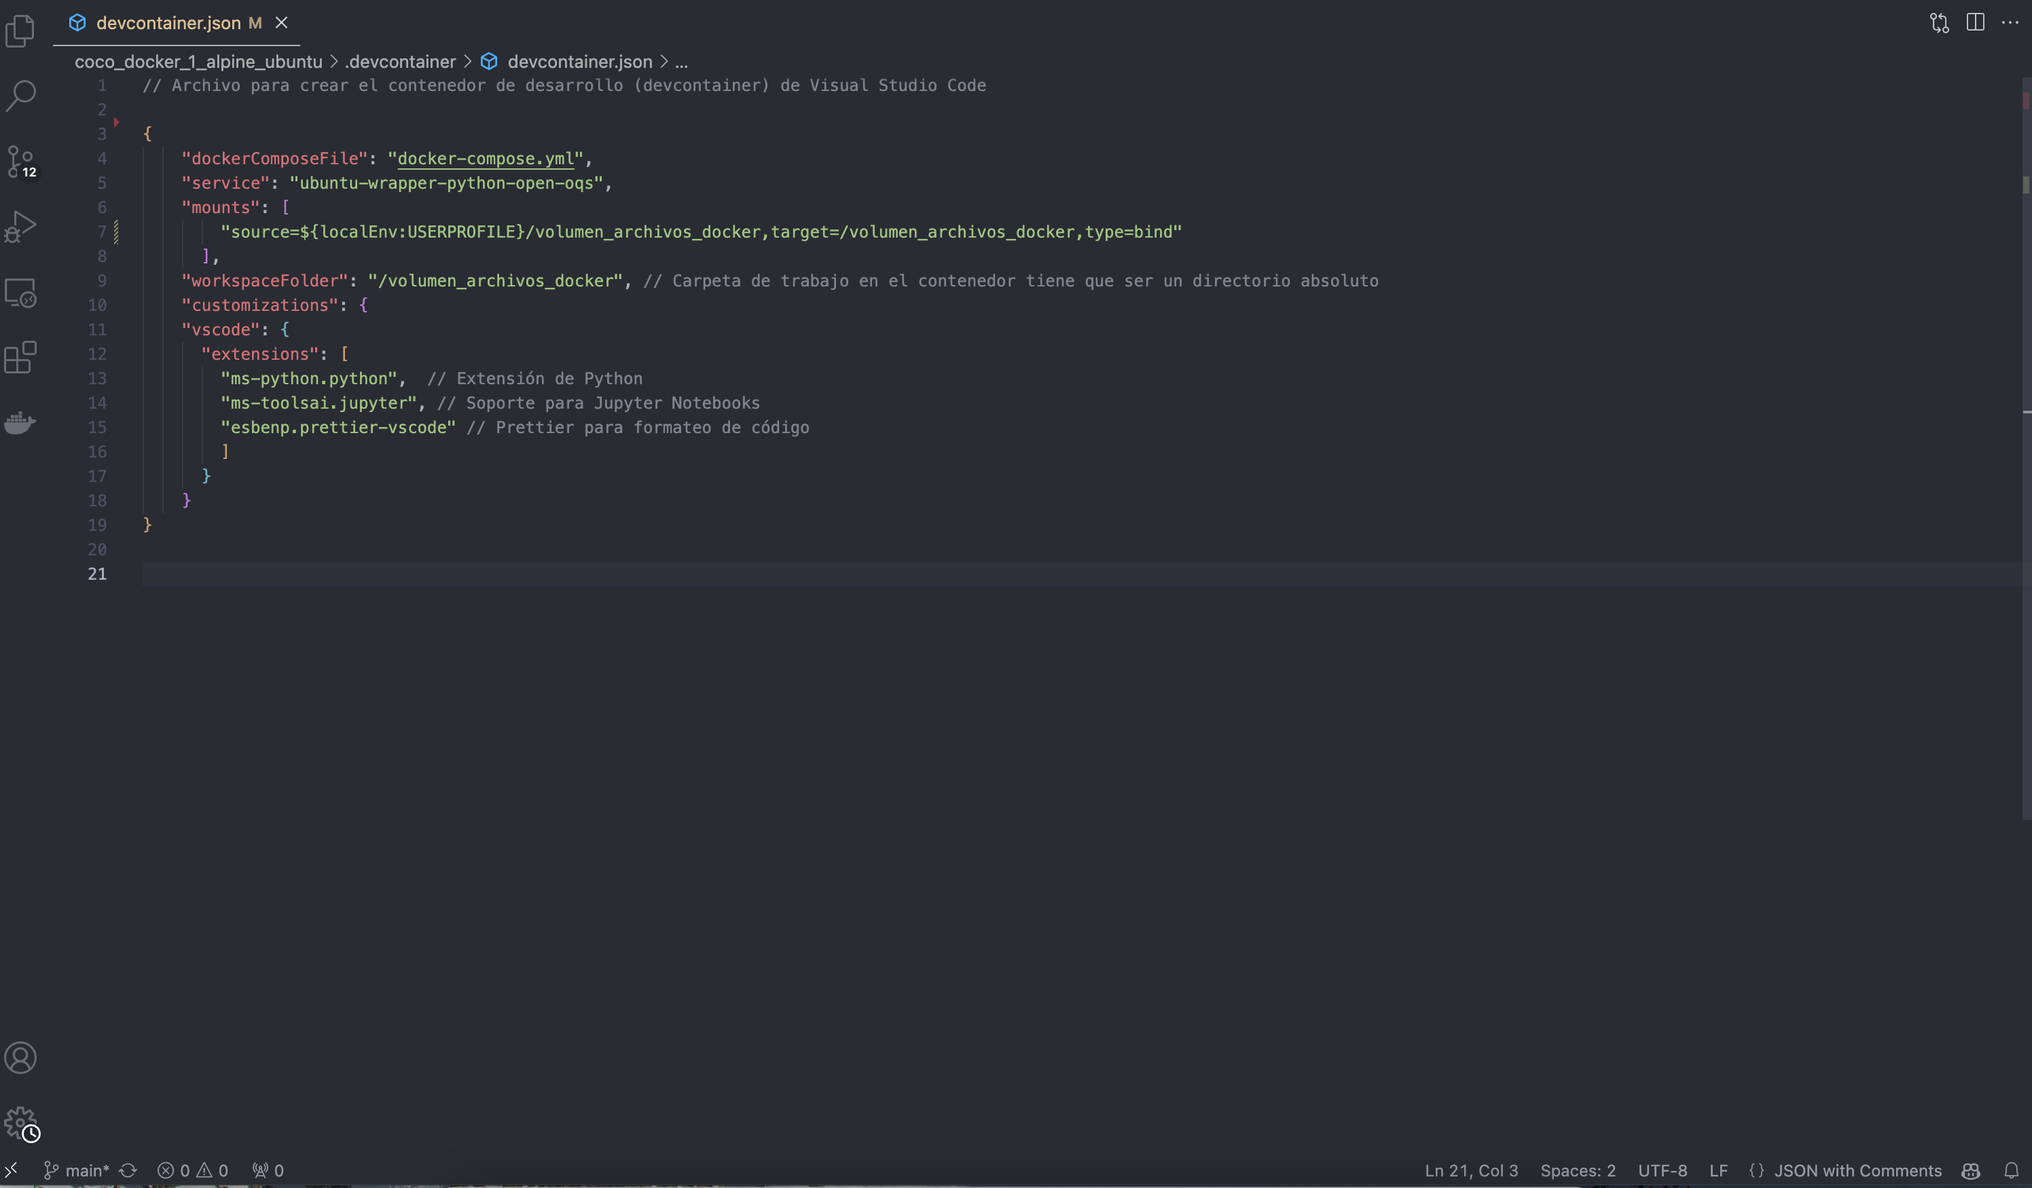
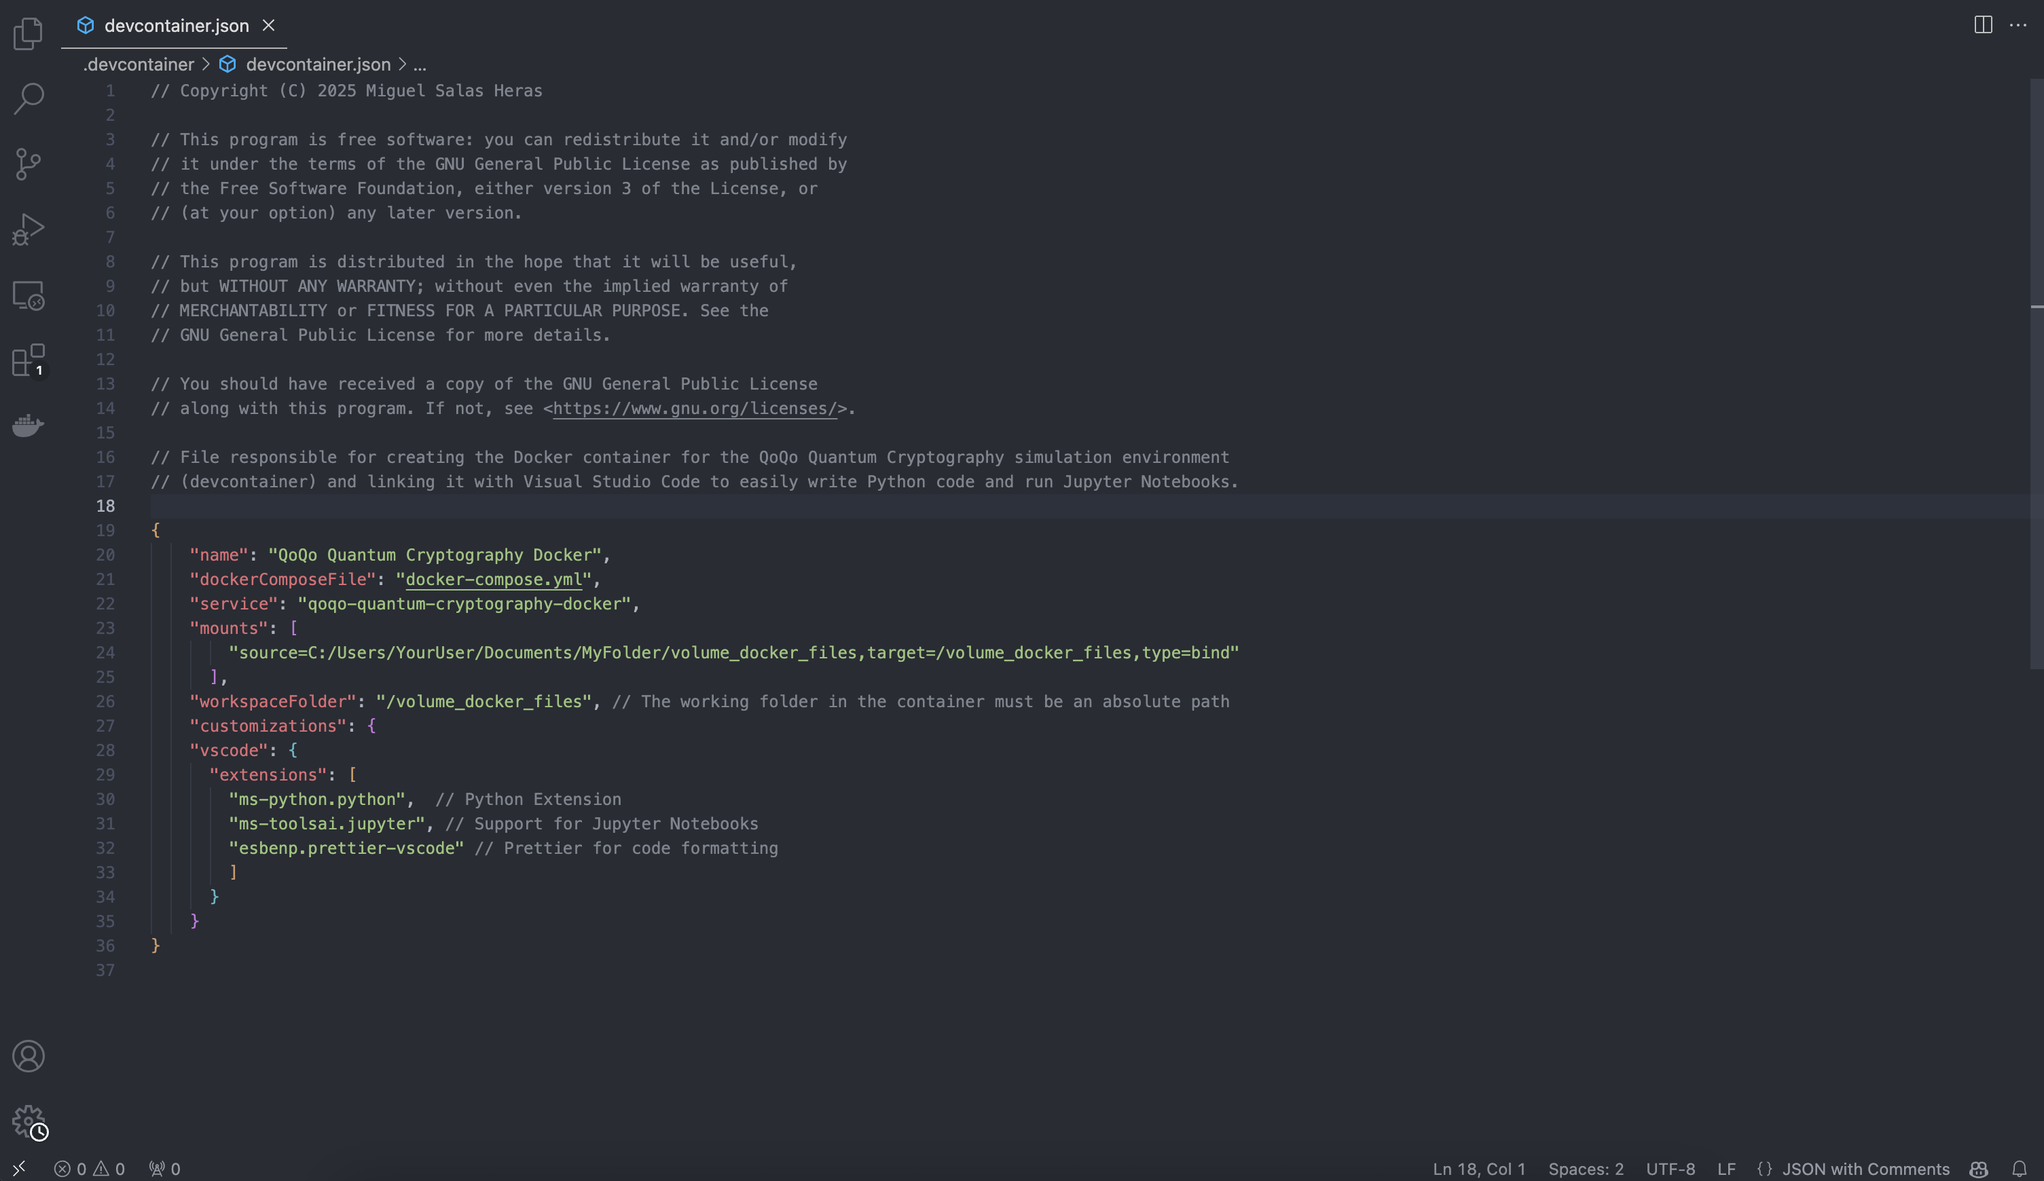
VERSION 2.0.0
Fixes:

- Fixed the issue with copying liboqs library files in the second stage of the Dockerfile

- Resolved compatibility issue between the crytomite package and the pybind11 subpackage version

Improved documentation and code clarity

- Translated code comments to English

- Added a new FAQs section

- Enhanced installation images for better clarity

diff --git a/README_ES.md b/README_ES.md
@@ -10,14 +10,14 @@ Este repositorio contiene las instrucciones para instalar y ejecutar *QoQo Quant
 - [Como salir del Entorno de Simulación QoQo Quantum Cryptography Docker](#como-salir-del-entorno-de-simulación-qoqo-quantum-cryptography-docker)
 - [Como Reconstruir el Entorno de Simulación QoQo Quantum Cryptography Docker](#como-reconstruir-el-entorno-de-simulación-qoqo-quantum-cryptography-docker)
 - [Comandos Utiles de Docker Cli (Command Line Interface)](#comandos-utiles-de-docker-cli-command-line-interface)
-- [Posibles Errores en el Sistema Operativo Windows](#posibles-errores-en-el-sistema-operativo-windows)
+- [Sección FAQ (Frequently Asked Questions)](#sección-faq-frequently-asked-questions)
 
 ## Dependencias del Entorno de Simulación QoQo Quantum Cryptography Docker
 
 Para poder ejecutar el entorno de simulación **deberemos tener instaladas las siguiente dependencias**:
 1. ***Docker Desktop*** software de código abierto para el despliegue de aplicaciones en contenedores de software aislados del sistema principal de la máquina. Para descargarlo pulsa en el siguiente [enlace](https://www.docker.com/).
 2. ***Visual Studio Code*** editor de código fuente desarrollado por *Microsoft*. Para descargarlo pulsa en el siguiente [enlace](https://code.visualstudio.com/).
-3. ***Git*** software de control de versiones diseñado por *Linus Torvalds*, este lo utilizaremos para clonar este repositorio en nuestro *PC*, en caso de que no se adjunten los archivos por parte del profesor de la asignatura. Para descargarlo pulsa en el siguiente [enlace](https://git-scm.com/downloads).
+3. ***Git*** software de control de versiones diseñado por *Linus Torvalds*, este lo utilizaremos para clonar este repositorio en nuestro *PC*, **EN CASO DE QUE EL PROFESOR DE LA ASIGNATURA NO HAYA ADJUNTADO LOS ARCHIVOS**. Para descargarlo pulsa en el siguiente [enlace](https://git-scm.com/downloads).
 4. **Extensión *dev-containers* de *Visual Studio Code*** extensión de *Visual Studio Code* que nos permite ejecutar contenedores *Docker* y sustituir el entorno de ejecución de este editor código por el contendor. Para instarlar esta dependecia deberas seguir los siguientes pasos:
 
     1. Deberemos iniciar *Visual Studio Code* y **pulsar sobre el icono cuadrado que contiene con 4 cuadrados** donde uno de ellos sale del cuadrado principal, si dejamos el ratón sobre dicho icono nos aparecerá una viñeta marcandonos que es el icono de la pestaña *Extensions*, como se puede observar en la siguiente imagen:<br>
@@ -49,18 +49,18 @@ Para poder ejecutar el entorno de simulación **deberemos tener instaladas las s
 
 Una vez instaladas todas las dependecias destacadas en el punto anterior [Dependencias del Entorno de Simulación QoQo Quantum Cryptography Docker](#dependencias-del-entorno-de-simulación-qoqo-quantum-cryptography-docker) podremos ejecutar el Entorno de Simulación, realizando los siguientes pasos:
 
-1. En primer lugar, deberemos **especificar la ruta donde se encuentra nuestro el proyecto *QoQo Quantum Cryptography Docker***, para poder enlazar el contendor *docker* con la carpeta `volumen_archivos_docker`, consiguiendo que todos los archivos queden guardados en dicha carpeta. La especificación del *path* dependera del sistema operativo en el que vayamos a ejecutar el contenedor *docker*:
+1. En primer lugar, deberemos **especificar la ruta donde se encuentra nuestro el proyecto *QoQo Quantum Cryptography Docker***, para poder enlazar el contendor *docker* con la carpeta `volume_docker_files`, consiguiendo que todos los archivos queden guardados en dicha carpeta. La especificación del *path* dependera del sistema operativo en el que vayamos a ejecutar el contenedor *docker*:
     - ***Windows*** para especificar el *path* deberemos cambiar ciertas variables de los archivos del proyecto, para realizar esto seguir los siguientes pasos:
         1. Abrir el Explorador de Archivos de *Windows*.
         2. Navega hasta la carpeta del proyecto.
         3. Pulsa sobre la barra de direcciones (donde aparece el nombre de la carpeta).
-        4. Verás el *path* completo, como por ejemplo: `C:\Users\TuUsuario\Documents\MiCarpeta`.
+        4. Verás el *path* completo, como por ejemplo: `C:\Users\YourUser\Documents\MyFolder`.
         5. Copiar dicho *path* pulsado *Ctrl + C*.
-        6. Sustituir en el archivo [/.devcontainer/docker-compose.yml](./.devcontainer/docker-compose.yml) el volumen definido en la parte *Volumes* por `- C:/Users/TuUsuario/Documents/MiCarpeta/volumen_archivos_docker/:/volumen_archivos_docker/` **destacar que las barras \ tiene que cambiadas por barras / que son las soportados por *Docker***. A continuación, una imagen de como quedaría el archivo [/.devcontainer/docker-compose.yml](./.devcontainer/docker-compose.yml):<br>
+        6. Sustituir en el archivo [/.devcontainer/docker-compose.yml](./.devcontainer/docker-compose.yml) el volumen definido en la parte *Volumes* por `- C:/Users/YourUser/Documents/MyFolder/volume_docker_files/:/volume_docker_files/` **destacar que las barras \ deberán cambiarse por barras /, ya que, estas son las soportados por *Docker***. A continuación, una imagen de como quedaría el archivo [/.devcontainer/docker-compose.yml](./.devcontainer/docker-compose.yml):<br>
             <img src="./images_readme_md/windows_path/docker_compose_path_windows.png" alt="Windows Path Docker Compose" width="400" height="270">
 
         7. Guardar los cambios realizados en el archivo [/.devcontainer/docker-compose.yml](./.devcontainer/docker-compose.yml).
-        8. Sustituir en el archivo [/.devcontainer/devcontainer.json](./.devcontainer/devcontainer.json) el *mount* definido en la parte *mounts* por `"source=${localEnv:USERPROFILE}/volumen_archivos_docker,target=/volumen_archivos_docker,type=bind"`. A continuación, una imagen de como quedaría el archivo [/.devcontainer/devcontainer.json](./.devcontainer/devcontainer.json):<br>
+        8. Sustituir en el archivo [/.devcontainer/devcontainer.json](./.devcontainer/devcontainer.json) el *mount* definido en la parte *mounts* por `"source=C:/Users/YourUser/Documents/MyFolder/volume_docker_files,target=/volume_docker_files,type=bind"` **destacar que las barras \ deberán cambiarse por barras /, ya que, estas son las soportados por *Docker***. A continuación, una imagen de como quedaría el archivo [/.devcontainer/devcontainer.json](./.devcontainer/devcontainer.json):<br>
             <img src="./images_readme_md/windows_path/devcontainer_path_windows.png" alt="Windows Path Dev Container" width="400" height="270">
 
         9. Guardar los cambios realizados en el archivo [/.devcontainer/devcontainer.json](./.devcontainer/devcontainer.json).
@@ -82,7 +82,7 @@ Una vez instaladas todas las dependecias destacadas en el punto anterior [Depend
 5. **Tras esto se nos abrirá una nueva ventana de *Visual Studio Code* que estará enlazada con el *docker* *QoQo Quantum Cryptography Docker***. A continuación, la pantalla que se abrirá al ejecutar el contenedor:<br>
     <img src="./images_readme_md/dev_container_execution/dev_container_link_visual_studio_code.png" alt="Dev Container Link Visual Studio Code" width="400" height="270">
 
-6. Para **comprobar que nos encontramos en el *Docker*** podremos** visualizar en la parte inferior** izquierda (donde se ubican las flechas destacadas anteriormente) de la nueva pantalla de *Visual Studio Code* algo así **`Dev Container @ desktop-linux`**, esto significa que estamos en el *Docker*.
+6. Para **comprobar que nos encontramos en el *Docker* podremos visualizar en la parte inferior izquierda** (donde se ubican las flechas destacadas anteriormente) de la nueva pantalla de *Visual Studio Code* algo así **`Dev Container @ desktop-linux`**, esto significa que estamos en el *Docker*.
 
 ## Como salir del Entorno de Simulación QoQo Quantum Cryptography Docker
 
@@ -116,16 +116,20 @@ En este apartado es una lista de aquellos **comandos utiles de *Docker Cli***:
 
 **Cabe destacar que todas estas acciones también se pueden realizar desde la aplicación de *Docker Desktop***.
 
-## Posibles Errores en el Sistema Operativo Windows
+## Sección FAQ (Frequently Asked Questions)
 
-Si en el **sistema operativo *Windows* al ejecutar el *Docker* tiene lugar un error de *Mount denied* o *permission denied***, deberemos realizar los **siguientes pasos para solucionarlo**:
+En esta sección trataremos posibles errores en la ejecución del entorno de simulación:
 
-1. Abrir la aplicación de *Docker Desktop*.
-2. Pulsar en el icono del engranaje, ubicado en la parte superior derecha, que nos llevará a *Settings*.
-3. En el menú lateral, pulse en: *Resources* --> *File sharing*.
-4. En esta página, si bajamos hasta el final de esta, podremos ver una lista de carpetas o discos permitidos para compartir con contenedores Docker.
-5. Verificá que el disco o carpetas donde se ubique el proyecto esté en esa lista. Por ejemplo, si tu proyecto está en `D:\proyectos\docker`, el disco `D:` debe estar compartido. Si solo aparece `C:` pero tu código está en otro disco, seleccione el disco o la carpeta manualmente y pulse sobre el simbolo *+* para añadir el *path* selecionado a la lista.
-6. Pulse sobre *Apply & Restart* para aplicar los cambios realizados.
+1. Si en el **sistema operativo *Windows* al ejecutar el *Docker* tiene lugar un error de *Mount denied* o *permission denied***, deberemos realizar los **siguientes pasos para solucionarlo**:
+
+    1. Abrir la aplicación de *Docker Desktop*.
+    2. Pulsar en el icono del engranaje, ubicado en la parte superior derecha, que nos llevará a *Settings*.
+    3. En el menú lateral, pulse en: *Resources* --> *File sharing*.
+    4. En esta página, si bajamos hasta el final de esta, podremos ver una lista de carpetas o discos permitidos para compartir con contenedores Docker.
+    5. Verificá que el disco o carpetas donde se ubique el proyecto esté en esa lista. Por ejemplo, si tu proyecto está en `D:\proyectos\docker`, el disco `D:` debe estar compartido. Si solo aparece `C:` pero tu código está en otro disco, seleccione el disco o la carpeta manualmente y pulse sobre el simbolo *+* para añadir el *path* selecionado a la lista.
+    6. Pulse sobre *Apply & Restart* para aplicar los cambios realizados.
+
+2. En el **sistema operativo *Windows* podremos tener la versión de WSL (Windows Subsystem for Linux) desactualizada** para solucionar este error deberemos ejecutar en la consola de *Windows* `wsl --update`
 
 ### Licencia
 

diff --git a/README.md b/README.md
@@ -12,14 +12,14 @@ To go to the documentation in Spanish (this README but in Spanish), click on the
 - [How to exit from the QoQo Quantum Cryptography Docker](#how-to-exit-from-the-qoqo-quantum-cryptography-docker)
 - [How to Rebuild the QoQo Quantum Cryptography Docker](#how-to-rebuild-the-qoqo-quantum-cryptography-docker)
 - [Useful Docker Cli (Command Line Interface) Commands](#useful-dockere-cli-command-line-interface-commands)
-- [Possible Errors with Windows Operating System](#possible-errors-with-windows-operating-system)
+- [FAQ Section (Frequently Asked Questions)](#faq-section-frequently-asked-questions)
 
 ## Dependencies of the QoQo Quantum Cryptography Docker
 
 To run the QoQo Docker we **should have the following dependencies already installed**:
 1. ***Docker Desktop***: open source software for deploying applications on software containers isolated from the main host. To download it, click on the next link [link](https://www.docker.com/).
 2. ***Visual Studio Code*** (VSC): Integrated Development Environment (IDE) for source code developed by *Microsoft*.  To download it, click on the next link [link](https://code.visualstudio.com/).
-3. ***Git***: version control software designed by *Linus Torvalds*. We will use *Git* to clone this repository on our *PC*, in case the files are not provided by the course teacher. To download it, click on the next link [link](https://git-scm.com/downloads).
+3. ***Git***: version control software designed by *Linus Torvalds*. We will use *Git* to clone this repository on our *PC*,**IN CASE THE FILES ARE NOT PROVIDED BY THE COURSE TEACHER**. To download it, click on the next link [link](https://git-scm.com/downloads).
 4. **Extension *dev-containers* by *Visual Studio Code***: *Visual Studio Code* extension that allows you to run *Docker* containers and to replace the execution environment used and displayed in *Visual Studio Code* by that of the *Docker* container. To install this dependency, follow the next steps:
 
     1. Open *Visual Studio Code* and **click on the square icon that contains four small squares**  (one is separated from the other three). Leaving the mouse pointer on that icon will display a label stating that this is the icon for the *Extensions*, as shown in the next image:<br>
@@ -51,19 +51,19 @@ To run the QoQo Docker we **should have the following dependencies already insta
 
 Once you have installed all the required dependencies listed in the previous section [Dependencies of the QoQo Quantum Cryptography Docker](#dependencies-of-the-qoqo-quantum-cryptography-docker) we are ready to run the simulation environment, following the next steps:
 
-1. First, we must **specify the path to the project  *QoQo Quantum Cryptography Docker*** in your **PC**, to link the *docker* container with the folder `volumen_archivos_docker`. This will allow that all the files stay in that folder (i.e., it will be the working folder). The *path* must be specified differently depending on the operating system where the *docker* is being deployed:
+1. First, we must **specify the path to the project  *QoQo Quantum Cryptography Docker*** in your **PC**, to link the *docker* container with the folder `volume_docker_files`. This will allow that all the files stay in that folder (i.e., it will be the working folder). The *path* must be specified differently depending on the operating system where the *docker* is being deployed:
     - ***Windows***: in this case we will have to modify some variables defined in the project files. Follow the next steps:
         1. Open the *Windows* File Explorer.
         2. Go to the project folder.
         3. Click on the address bar (where the name of the folder is shown).
-        4. The full *path* will be shown, for example: `C:\Users\TuUsuario\Documents\MiCarpeta`.
+        4. The full *path* will be shown, for example: `C:\Users\YourUser\Documents\MyFolder`.
         5. Copy that full *path* clicking the keyboard keys *Ctrl + C*.
-        6. Replace in the file [/.devcontainer/docker-compose.yml](./.devcontainer/docker-compose.yml) the volume defined in the section *Volumes* with `- C:/Users/TuUsuario/Documents/MiCarpeta/volumen_archivos_docker/:/volumen_archivos_docker/`. **Notice that the left-side bars \ must be replaced by right-side bars / , which are the ones supported by  *Docker***. Next image shows a snapshot of the file after modification [/.devcontainer/docker-compose.yml](./.devcontainer/docker-compose.yml):<br>
+        6. Replace in the file [/.devcontainer/docker-compose.yml](./.devcontainer/docker-compose.yml) the volume defined in the section *Volumes* with `- C:/Users/YourUser/Documents/MyFolder/volume_docker_files/:/volume_docker_files/`. **Notice that the left-side bars \ must be replaced by right-side bars / , which are the ones supported by  *Docker***. Next image shows a snapshot of the file after modification [/.devcontainer/docker-compose.yml](./.devcontainer/docker-compose.yml):<br>
             <img src="./images_readme_md/windows_path/docker_compose_path_windows.png" alt="Windows Path Docker Compose" width="400" height="270">
 
         7. Save the changes done in the file [/.devcontainer/docker-compose.yml](./.devcontainer/docker-compose.yml).
 
-        8. Replace in the file [/.devcontainer/devcontainer.json](./.devcontainer/devcontainer.json) the *mount* defined in the section *mounts* by `"source=${localEnv:USERPROFILE}/volumen_archivos_docker,target=/volumen_archivos_docker,type=bind"`. Next image shows a snapshot of the file after modification [/.devcontainer/devcontainer.json](./.devcontainer/devcontainer.json):<br>
+        8. Replace in the file [/.devcontainer/devcontainer.json](./.devcontainer/devcontainer.json) the *mount* defined in the section *mounts* by `"source=C:/Users/YourUser/Documents/MyFolder/volume_docker_files,target=/volume_docker_files,type=bind"`. **Notice that the left-side bars \ must be replaced by right-side bars / , which are the ones supported by  *Docker***. Next image shows a snapshot of the file after modification [/.devcontainer/devcontainer.json](./.devcontainer/devcontainer.json):<br>
             <img src="./images_readme_md/windows_path/devcontainer_path_windows.png" alt="Windows Path Dev Container" width="400" height="270">
 
         9. Save the changes done in the file [/.devcontainer/devcontainer.json](./.devcontainer/devcontainer.json).
@@ -122,16 +122,20 @@ List of  **useful *Docker Cli* commands**:
 
 **Notice that all these actions can also be run from *Docker Desktop***.
 
-## Possible Errors with Windows Operating System
+## FAQ Section (Frequently Asked Questions)
 
-If **running the *Docker* on *Windows* operating system, raises the error *Mount denied* or *permission denied***, we can follow the next steps to solve the issue:
+In this section, we will address possible errors when running the simulation environment:
 
-1. Open *Docker Desktop*.
-2. Click on the configuration (gear) icon, located in the top right-hand corner, that will open the *Settings*.
-3. In the left panel, click on *Resources* --> *File sharing*.
-4. In this page, at the bottom, we will see a list of folders or disks that can be shared with *Docker* containers.
-5. Check that the disk or folder where the project is located appears in that list. For example, if your project is in `D:\proyectos\docker`, the disk `D:` should be shared. If the only disk appearing is `C:` but your project is in a different disk, select the disk or folder and click on the symbol *+* to add that *path* to the list.
-6. Click on *Apply & Restart* to apply the changes.
+1. If **running the *Docker* on *Windows* operating system, raises the error *Mount denied* or *permission denied***, we can follow the next steps to solve the issue:
+
+    1. Open *Docker Desktop*.
+    2. Click on the configuration (gear) icon, located in the top right-hand corner, that will open the *Settings*.
+    3. In the left panel, click on *Resources* --> *File sharing*.
+    4. In this page, at the bottom, we will see a list of folders or disks that can be shared with *Docker* containers.
+    5. Check that the disk or folder where the project is located appears in that list. For example, if your project is in `D:\proyectos\docker`, the disk `D:` should be shared. If the only disk appearing is `C:` but your project is in a different disk, select the disk or folder and click on the symbol *+* to add that *path* to the list.
+    6. Click on *Apply & Restart* to apply the changes.
+
+2. **On Windows, you may have an outdated version of WSL (Windows Subsystem for Linux)**. To fix this error, simply run the following command in the Windows console: `wsl --update`
 
 ### License
 
